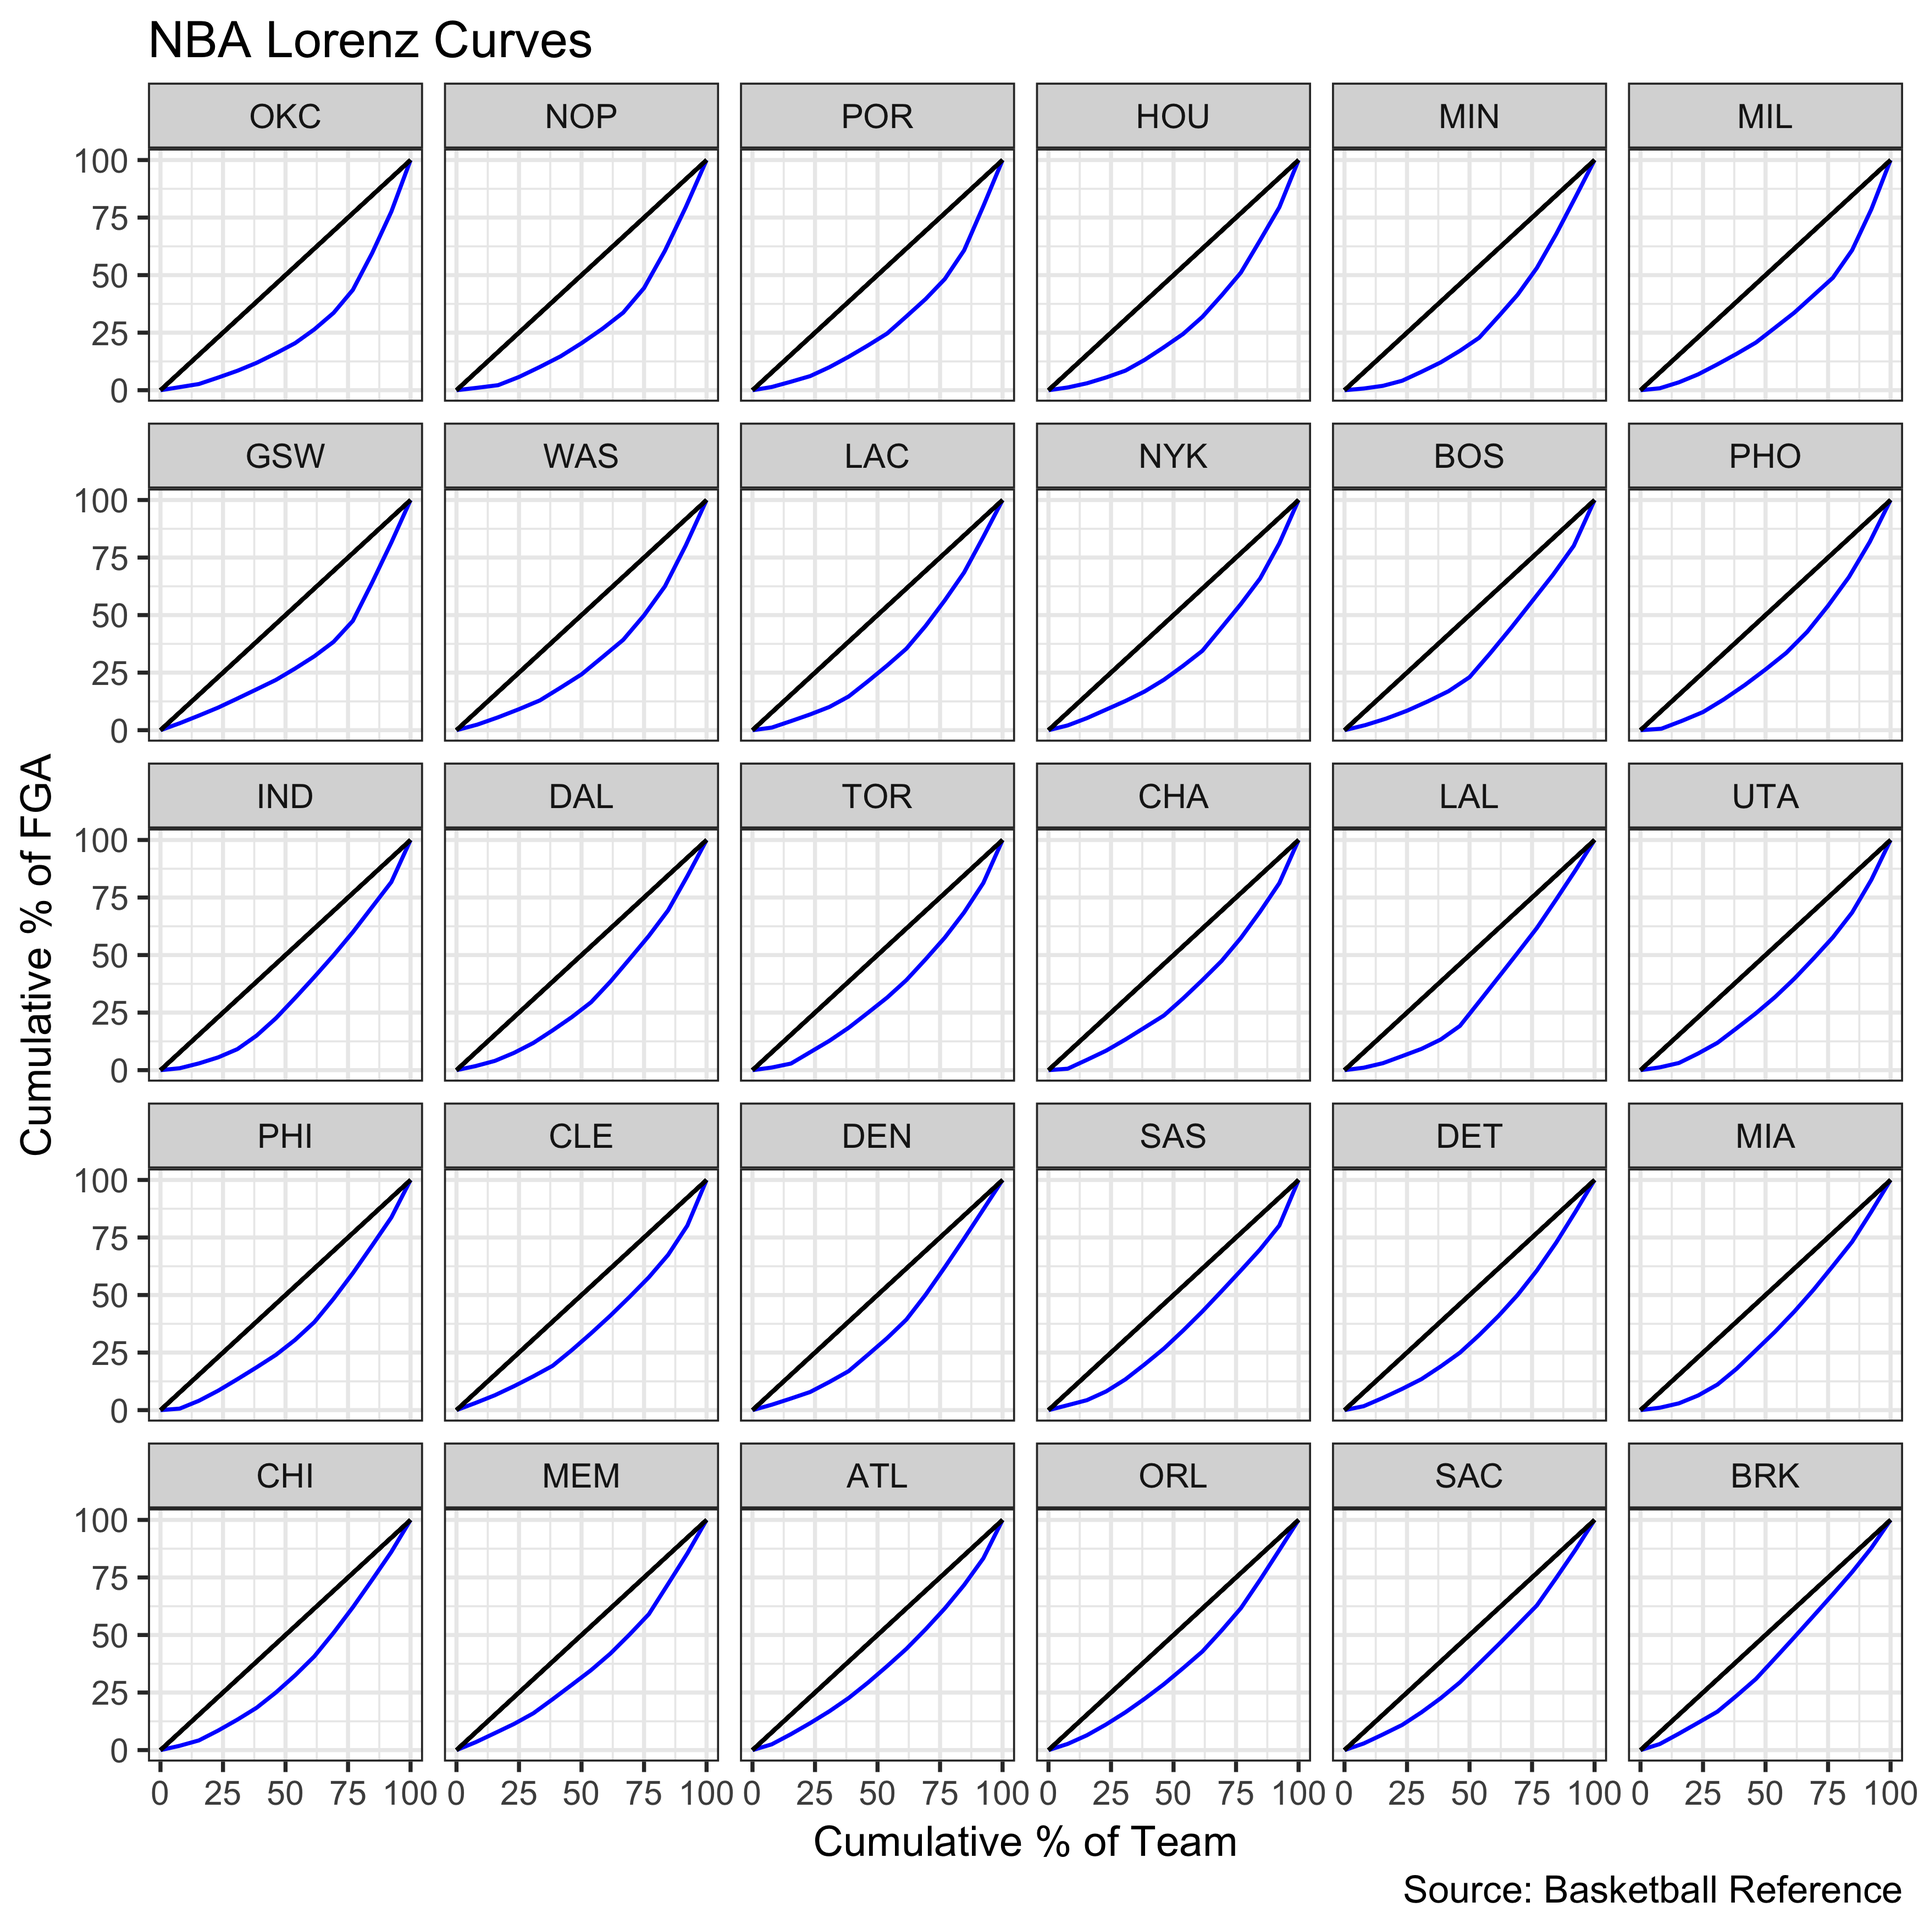
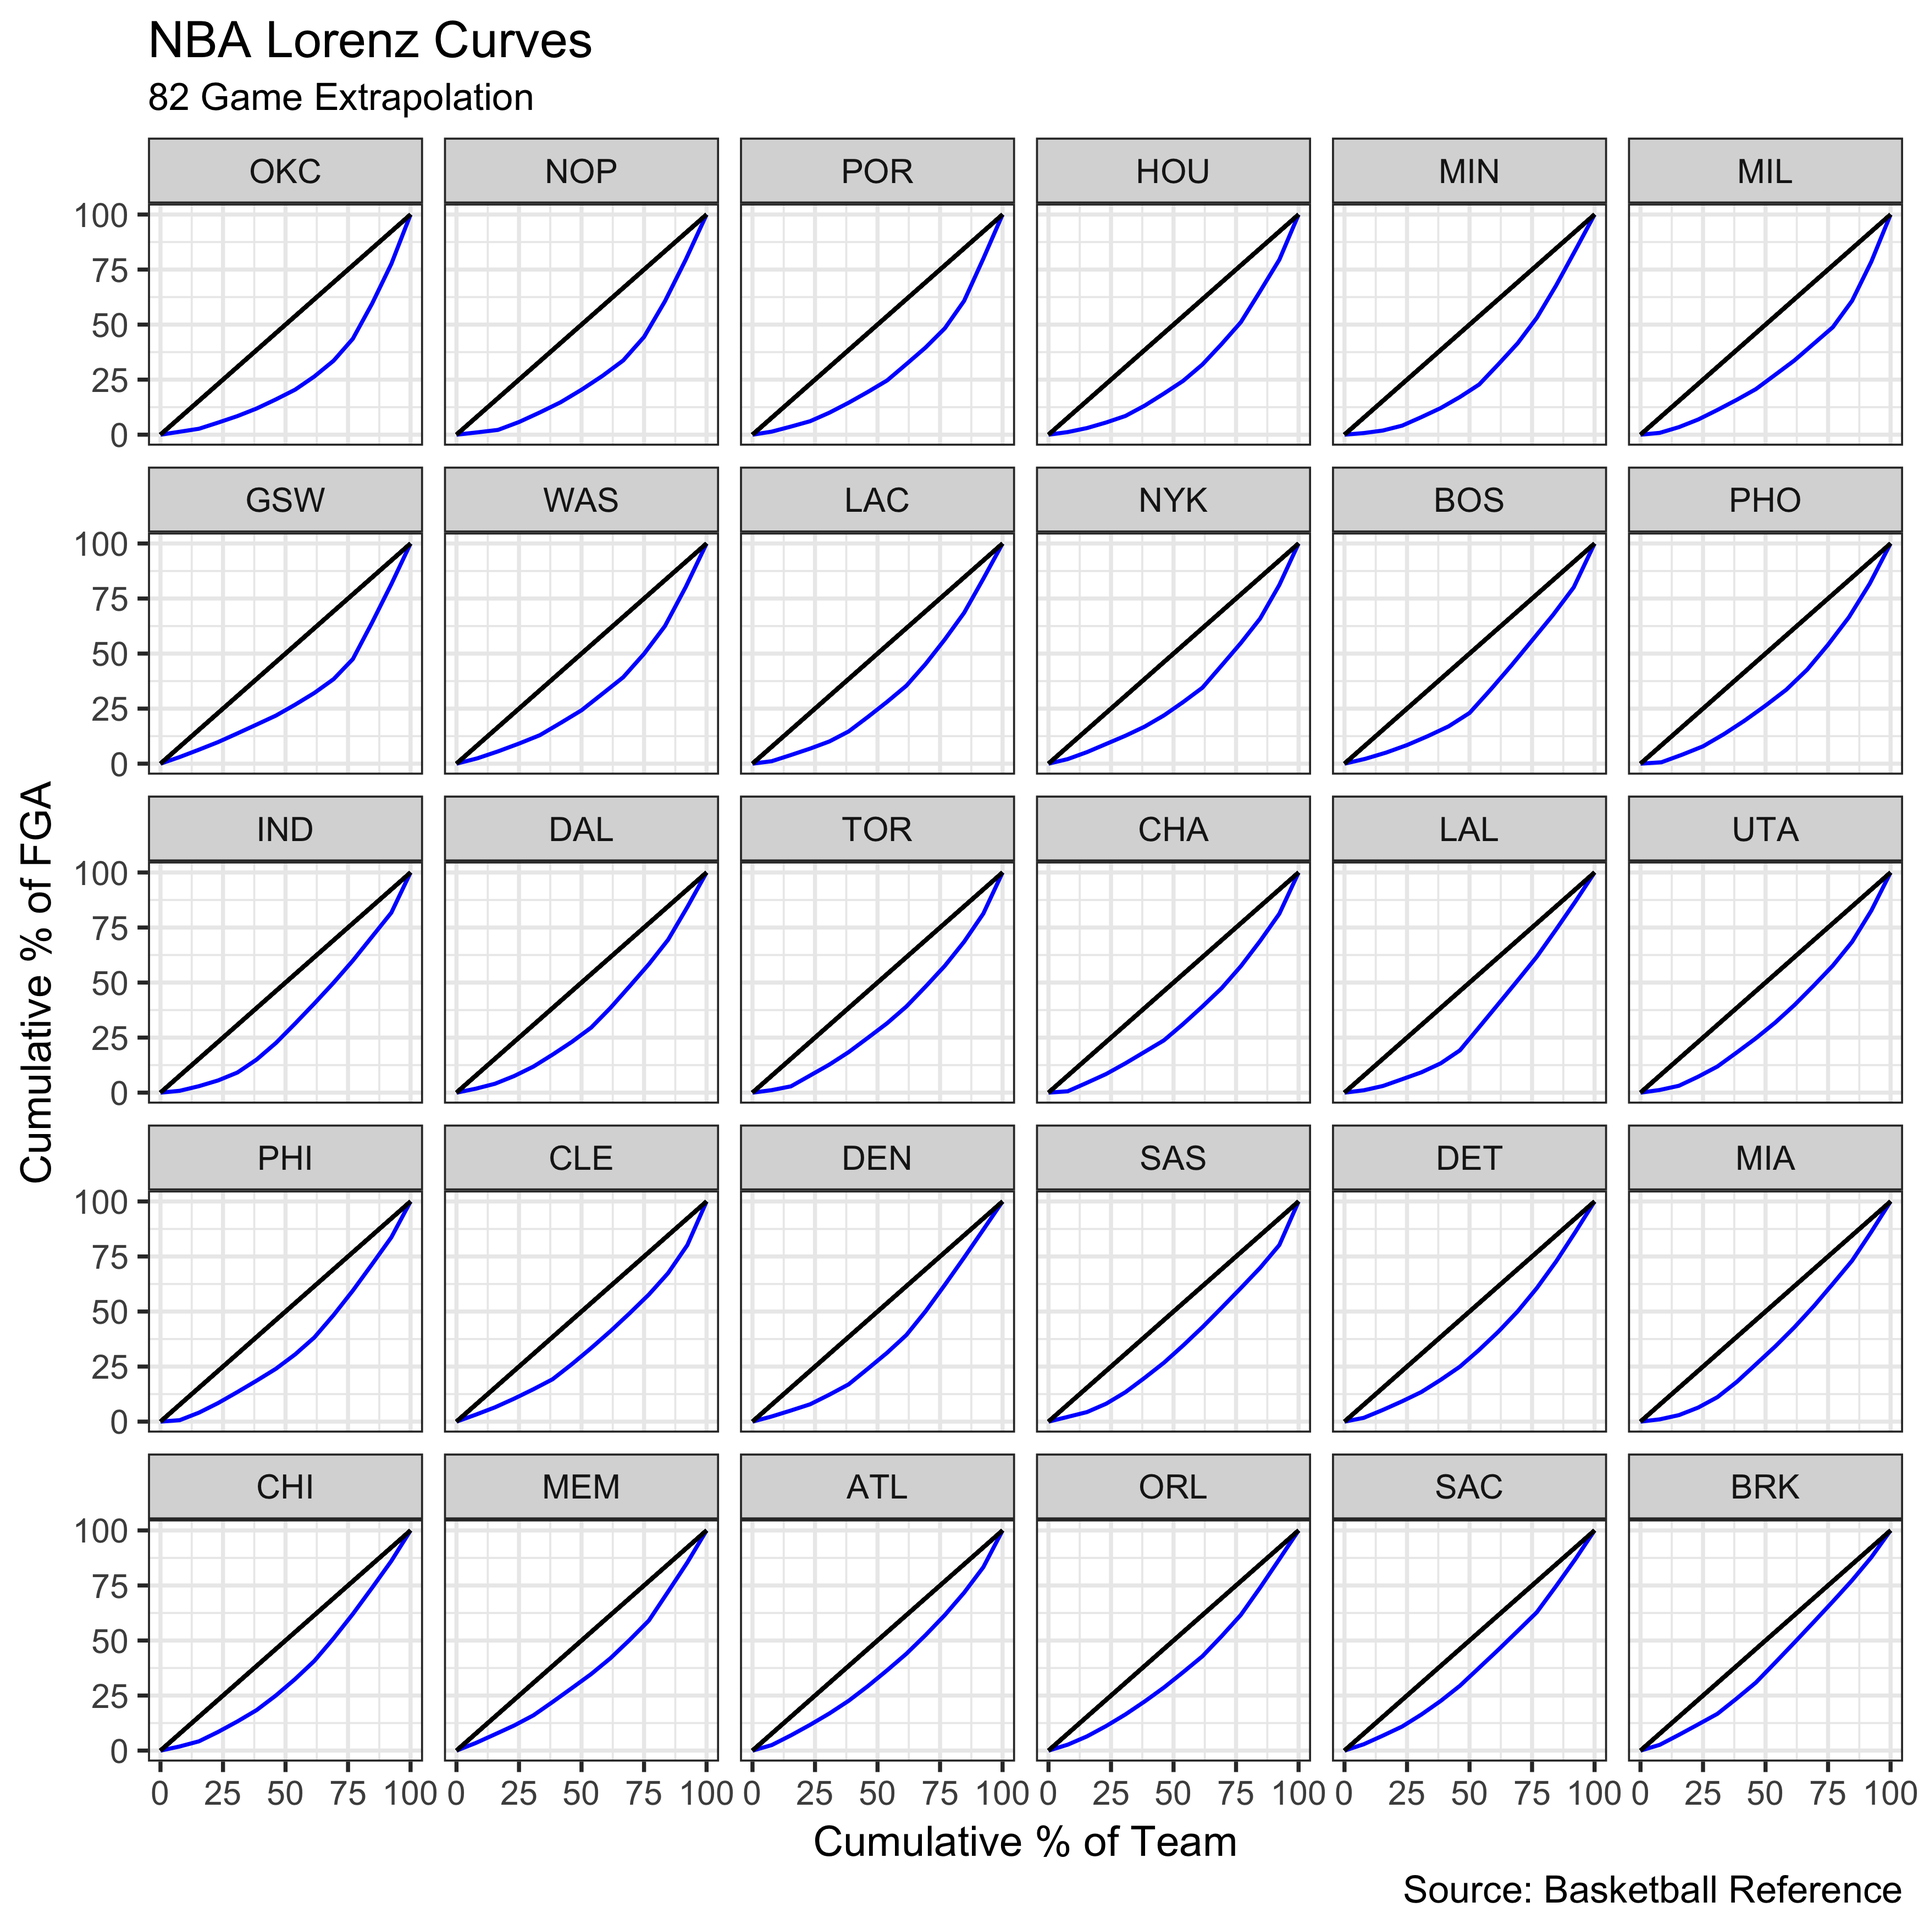
tweak nba shot dist post

Changed region(s): [[0.0, 0.0311, 0.9966, 0.9031]]

diff --git a/_posts/2018-05-03-the-economics-of-shot-distribution.md b/_posts/2018-05-03-the-economics-of-shot-distribution.md
@@ -221,7 +221,7 @@ lorenz_gini2$Team = factor(lorenz_gini2$Team, levels=unique(lorenz_gini2$Team[or
 
 ggplot(data = lorenz_gini2, aes(x=100*p, y=100*L, group = Team)) + geom_line(col='blue') +
   geom_segment(aes(x = 0, y = 0, xend = 100, yend = 100)) + theme_bw() + labs(title = "NBA Lorenz Curves",
-       caption = "Source: Basketball Reference", x = "Cumulative % of Team", y = "Cumulative % of FGA") + facet_wrap(~Team)
+       caption = "Source: Basketball Reference", x = "Cumulative % of Team", y = "Cumulative % of FGA", subtitle = "Min. 41 GP") + facet_wrap(~Team)
 ```
 
 <img src="{{ site.url }}/images/fga-dist-unnamed-chunk-8-1.png" title="plot of chunk unnamed-chunk-8" alt="plot of chunk unnamed-chunk-8" width="100%" />
@@ -313,7 +313,7 @@ lorenz_gini3$Team = factor(lorenz_gini3$Team, levels=unique(lorenz_gini3$Team[or
 
 ggplot(data = lorenz_gini3, aes(x=100*p, y=100*L, group = Team)) + geom_line(col='blue') +
   geom_segment(aes(x = 0, y = 0, xend = 100, yend = 100)) + theme_bw() + labs(title = "NBA Lorenz Curves",
-       caption = "Source: Basketball Reference", x = "Cumulative % of Team", y = "Cumulative % of FGA") + facet_wrap(~Team)
+       caption = "Source: Basketball Reference", x = "Cumulative % of Team", y = "Cumulative % of FGA", subtitle = "82 Game Extrapolation") + facet_wrap(~Team)
 ```
 
 <img src="{{ site.url }}/images/fga-dist-unnamed-chunk-10-1.png" title="plot of chunk unnamed-chunk-10" alt="plot of chunk unnamed-chunk-10" width="100%" />
